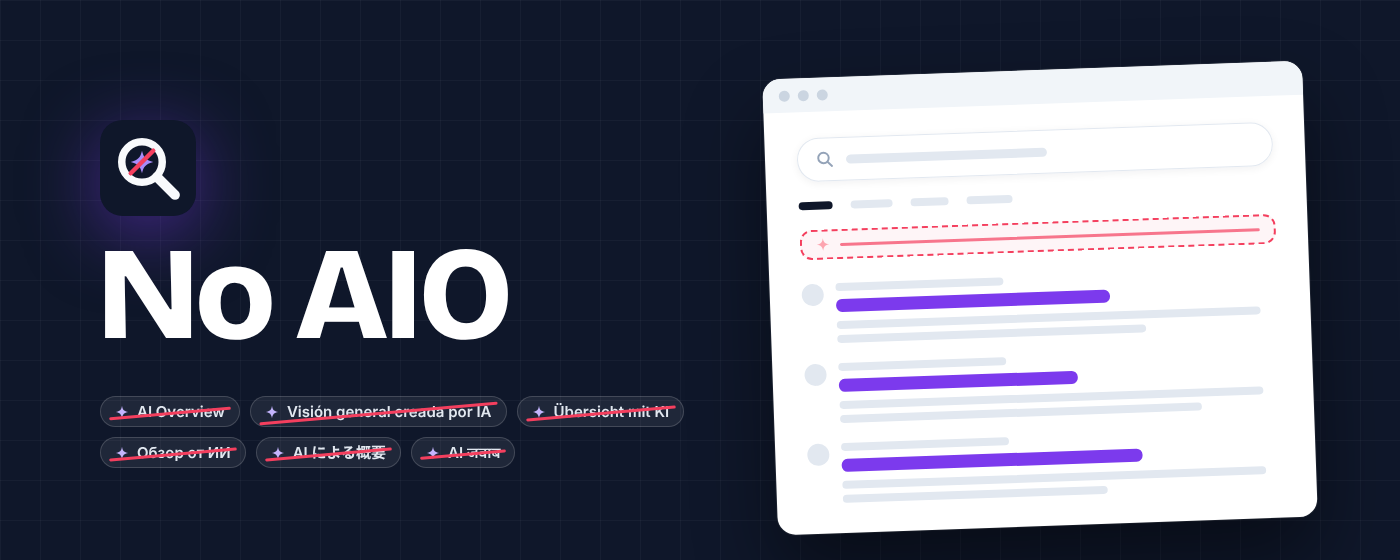
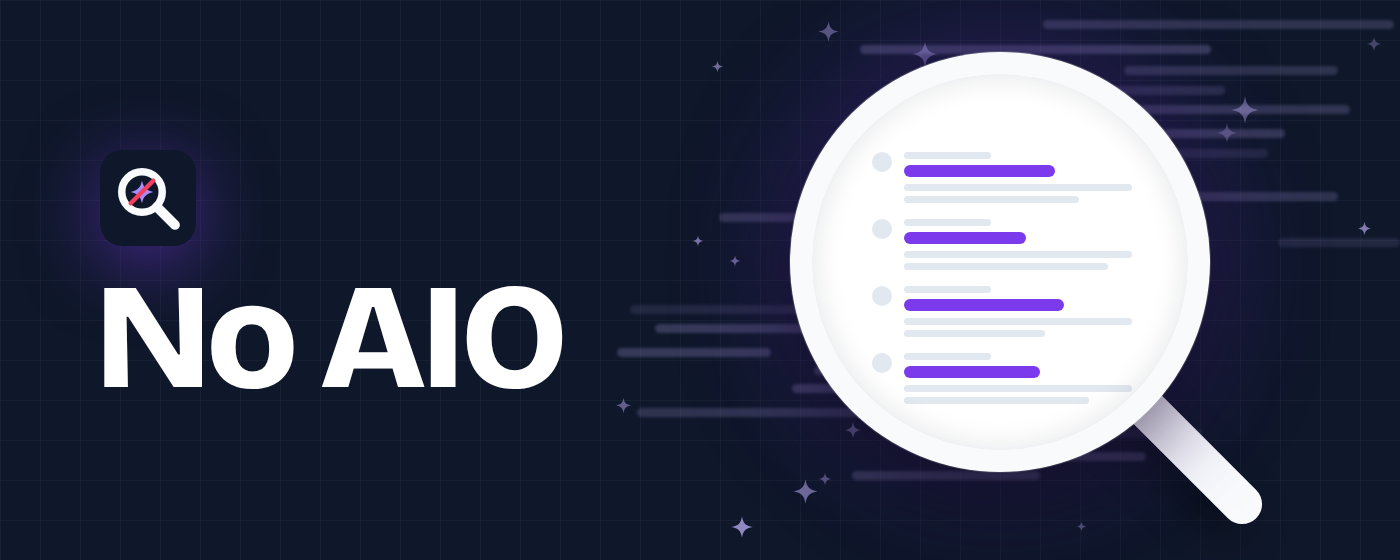
Promo tiles rediseñadas: la lupa como ventana a resultados limpios
Claude-Session: https://claude.ai/code/session_014NuHJHxpdZbSw9ow7VeDFp

Changed region(s): [[0.0614, 0.0304, 1.0, 0.9714], [0.5836, 0.0304, 0.6143, 0.0607]]

diff --git a/scripts/render-store.py b/scripts/render-store.py
@@ -293,20 +293,58 @@ def screenshot_uni():
 <div class="abs" style="left:700px;top:180px;box-shadow:0 0 0 3px {VIOLET};border-radius:18px">{serp_state(500, False)}</div>
 """
 
+import random
+
+def noise(x0, x1, y0, y1, n_lines, n_sparks, seed, scale=1.0):
+    """Ruido de IA: bloques de texto lavanda desenfocados y destellos dispersos."""
+    rnd = random.Random(seed)
+    out = []
+    y = y0
+    while y < y1 and n_lines:
+        w = rnd.randint(int(120 * scale), int(420 * scale))
+        x = rnd.randint(x0, max(x0, x1 - w))
+        out.append(f'<div class="abs" style="left:{x}px;top:{y}px;width:{w}px;height:{int(9*scale)}px;border-radius:6px;'
+                   f'background:rgba(196,181,253,{rnd.uniform(.10,.24):.2f});filter:blur({1.5*scale:.1f}px)"></div>')
+        y += int(rnd.randint(18, 26) * scale); n_lines -= 1
+    for _ in range(n_sparks):
+        sz = rnd.randint(int(10 * scale), int(30 * scale))
+        x, yy = rnd.randint(x0, x1), rnd.randint(y0, y1)
+        out.append(f'<div class="abs" style="left:{x}px;top:{yy}px;width:{sz}px;height:{sz}px;opacity:{rnd.uniform(.25,.8):.2f}">'
+                   f'{SPARK.replace("width=\"20\" height=\"20\"", "width=\"100%\" height=\"100%\"")}</div>')
+    return "".join(out)
+
+def lens(cx, cy, r, ring, handle_len, results, scale=1.0):
+    """La lupa del logo como ventana: adentro, resultados limpios."""
+    d = 2 * r
+    res = "".join(f"""<div style="display:flex;gap:{int(12*scale)}px;margin-bottom:{int(16*scale)}px">
+<div style="width:{int(20*scale)}px;height:{int(20*scale)}px;border-radius:50%;background:#E2E8F0;flex:none"></div>
+<div style="flex:1"><div class="sk" style="width:36%;height:{int(7*scale)}px;margin-bottom:{int(6*scale)}px"></div>
+<div style="width:{w}%;height:{int(12*scale)}px;border-radius:6px;background:{VIOLET};margin-bottom:{int(7*scale)}px"></div>
+<div class="sk" style="width:94%;height:{int(7*scale)}px;margin-bottom:{int(5*scale)}px"></div><div class="sk" style="width:{w2}%;height:{int(7*scale)}px"></div></div></div>"""
+                  for w, w2 in results)
+    hx, hy = cx + r * 0.72, cy + r * 0.72
+    return f"""<div class="abs" style="left:{hx - ring*0.9:.0f}px;top:{hy - ring*0.9:.0f}px;width:{handle_len}px;height:{ring*1.8:.0f}px;border-radius:{ring}px;
+  background:#F8FAFC;transform-origin:{ring*0.9:.0f}px 50%;transform:rotate(45deg);box-shadow:0 20px 40px rgba(0,0,0,.35)"></div>
+<div class="abs" style="left:{cx - r - ring}px;top:{cy - r - ring}px;width:{d + 2*ring}px;height:{d + 2*ring}px;border-radius:50%;background:#F8FAFC;
+  box-shadow:0 30px 80px rgba(0,0,0,.45),0 0 0 1px rgba(255,255,255,.2),0 0 120px rgba(124,58,237,.35)"></div>
+<div class="abs" style="left:{cx - r}px;top:{cy - r}px;width:{d}px;height:{d}px;border-radius:50%;overflow:hidden;background:#fff">
+  <div style="position:absolute;left:{int(r*0.32)}px;right:{int(r*0.22)}px;top:{int(r*0.42)}px">{res}</div>
+  <div style="position:absolute;inset:0;border-radius:50%;box-shadow:inset 0 0 {int(30*scale)}px rgba(15,23,42,.12)"></div>
+</div>"""
+
 def small_tile_uni():
-    return f"""<div class="abs glow grid" style="inset:0"></div>
-<div class="abs" style="left:36px;top:40px;display:flex;align-items:center;gap:16px">
-<div style="width:68px;height:68px;filter:drop-shadow(0 10px 24px rgba(124,58,237,.45))">{ICON}</div>
-<div class="word" style="font-size:58px">No AIO</div></div>
-<div class="abs" style="left:36px;top:140px;width:380px;display:flex;flex-wrap:wrap;gap:9px">{chips(LABELS[:1] + LABELS[2:5])}</div>
-<div class="abs" style="left:36px;right:36px;bottom:30px;height:2px;background:linear-gradient(90deg,{VIOLET},transparent)"></div>"""
+    return f"""<div class="abs glow" style="inset:0"></div>
+{noise(170, 440, 10, 270, 12, 10, seed=7, scale=.7)}
+{lens(326, 128, 86, 11, 92, [(64, 70), (52, 80), (60, 56)], scale=.62)}
+<div class="abs" style="left:34px;top:40px;width:54px;height:54px;filter:drop-shadow(0 10px 24px rgba(124,58,237,.45))">{ICON}</div>
+<div class="abs word" style="left:32px;top:150px;font-size:60px">No<br>AIO</div>"""
 
 def marquee_uni():
     return f"""<div class="abs glow grid" style="inset:0"></div>
-<div class="abs" style="left:100px;top:120px;width:96px;height:96px;filter:drop-shadow(0 16px 36px rgba(124,58,237,.5))">{ICON}</div>
-<div class="abs word" style="left:96px;top:236px;font-size:132px">No AIO</div>
-<div class="abs" style="left:100px;top:396px;width:620px;display:flex;flex-wrap:wrap;gap:10px">{chips(LABELS)}</div>
-<div class="abs" style="left:770px;top:70px;transform:rotate(-2deg)">{serp(540)}</div>"""
+{noise(600, 1400, 20, 540, 22, 22, seed=11)}
+{lens(1000, 262, 188, 22, 190, [(62, 72), (50, 84), (66, 58), (56, 76)])}
+<div class="abs" style="left:100px;top:150px;width:96px;height:96px;filter:drop-shadow(0 16px 36px rgba(124,58,237,.5))">{ICON}</div>
+<div class="abs word" style="left:94px;top:270px;font-size:150px">No AIO</div>"""
 
 def render(name, body, w, h, c):
     html = SRC / f"{name}.html"
